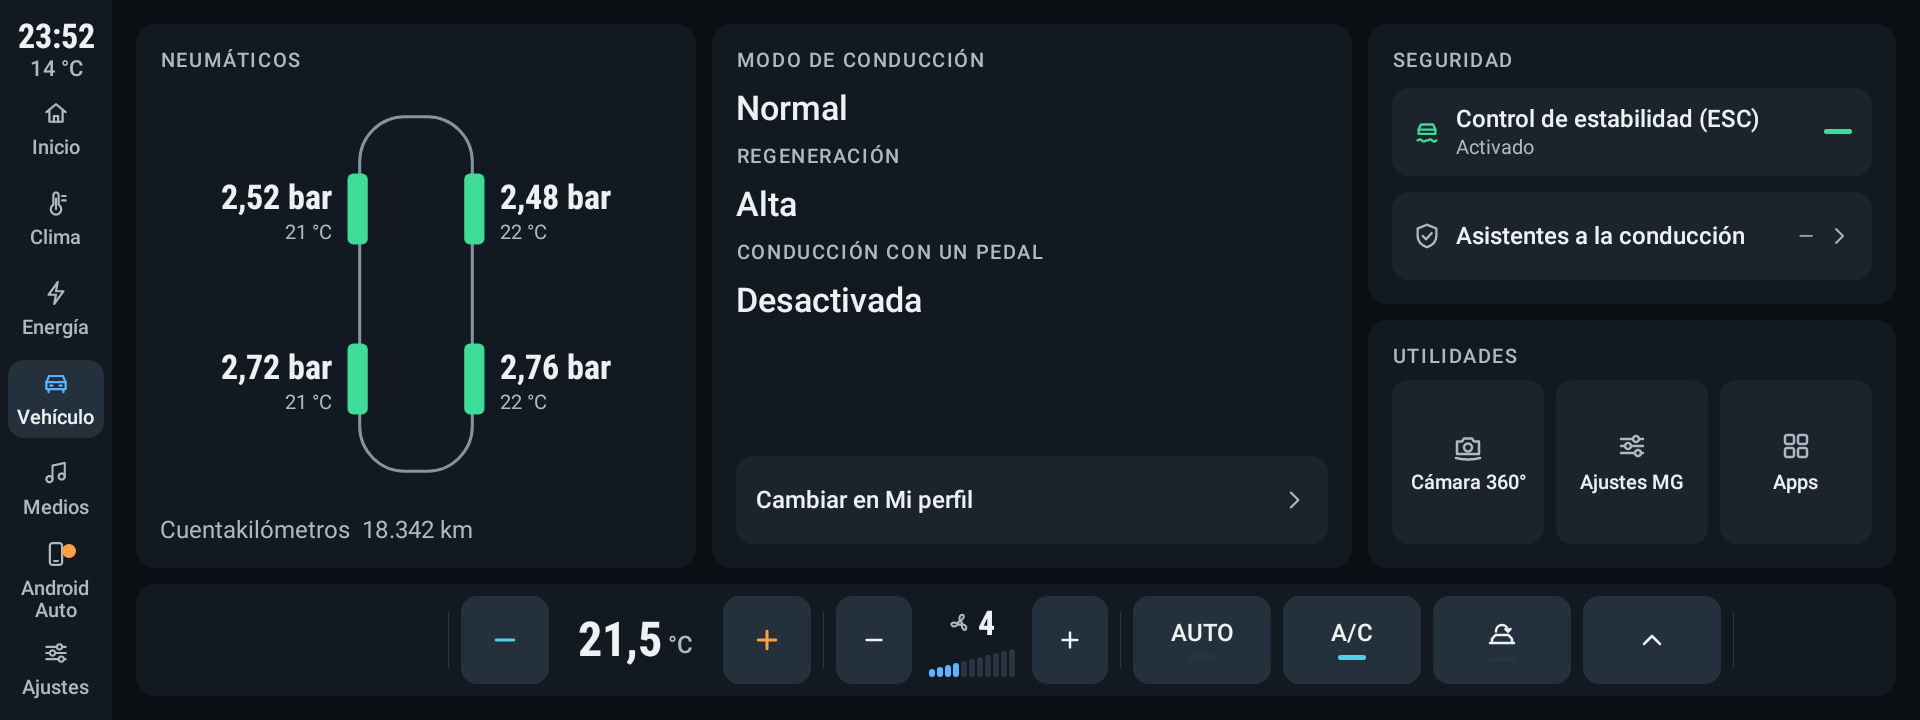
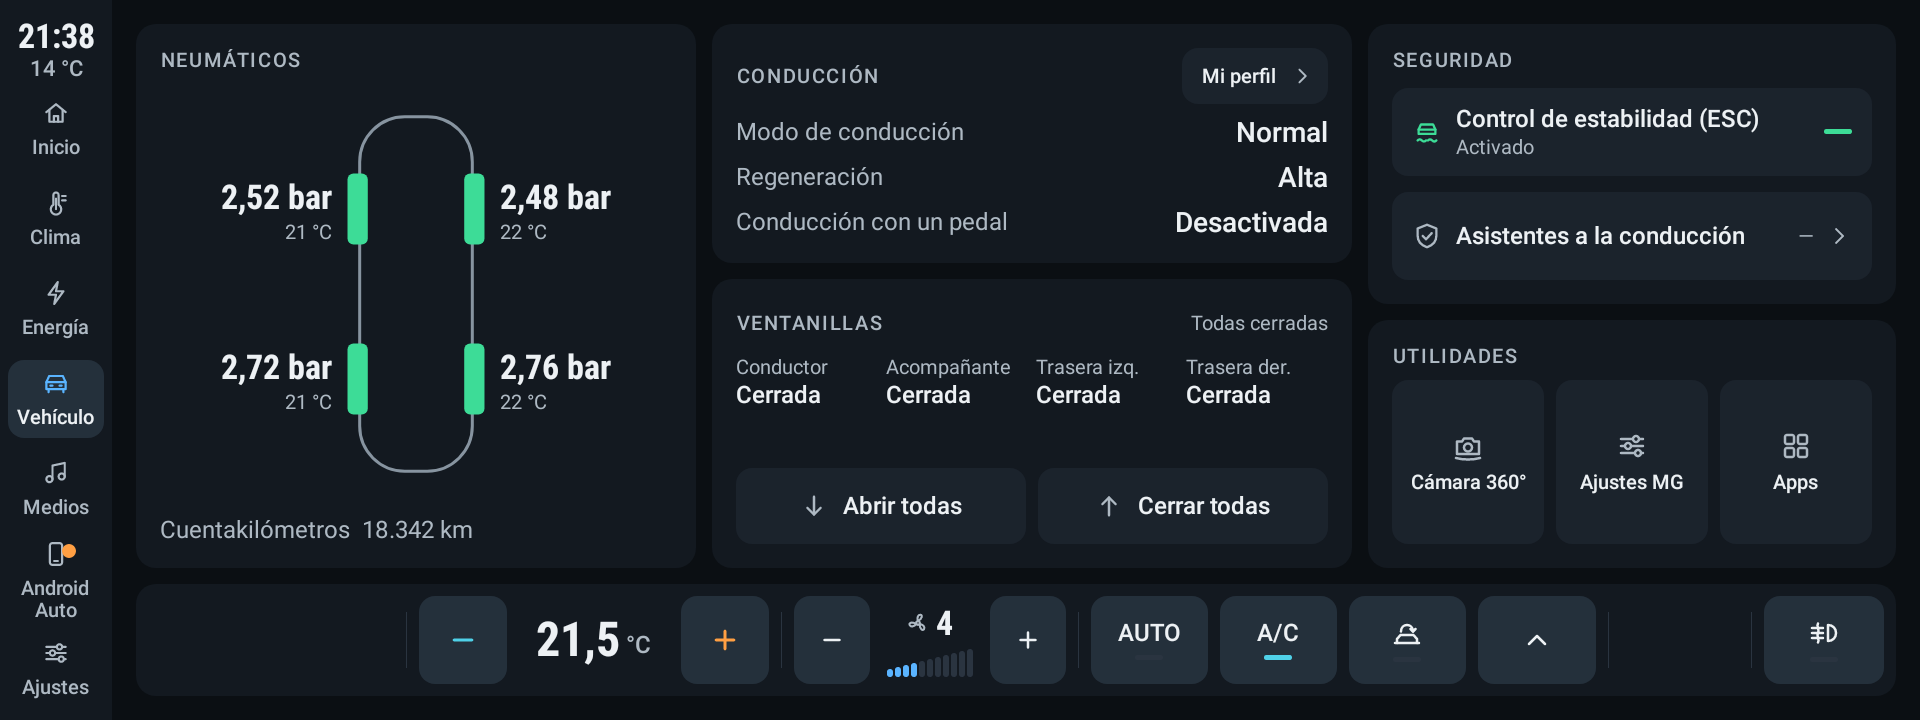
Vehículo: show each window and open or close them all
The car's VehicleControlManager (the one ESC already uses) reads every
window as 0-100 % and takes a command 0-7 per window. The SAIC launcher
only names two: 3 closes all and 4 opens all. Both are sent to all four
windows, so they end up the same way whether the car applies them to one
window or all. Not tried on the car yet.

diff --git a/app/src/main/java/app/mg4dash/cockpit/screens/VehicleScreens.kt b/app/src/main/java/app/mg4dash/cockpit/screens/VehicleScreens.kt
@@ -6,6 +6,7 @@ import android.widget.TextView
 import app.mg4dash.car.CarBridge
 import app.mg4dash.car.CarProps
 import app.mg4dash.car.VehicleState
+import app.mg4dash.car.Windows
 import app.mg4dash.cockpit.Adas
 import app.mg4dash.cockpit.Btn
 import app.mg4dash.cockpit.Dim
@@ -23,6 +24,7 @@ import app.mg4dash.cockpit.Ty
 import app.mg4dash.cockpit.WRAP
 import app.mg4dash.cockpit.card
 import app.mg4dash.cockpit.col
+import app.mg4dash.cockpit.header
 import app.mg4dash.cockpit.label
 import app.mg4dash.cockpit.lp
 import app.mg4dash.cockpit.put
@@ -42,6 +44,10 @@ class VehicleScreen(host: Host) : Screen(host) {
     private lateinit var esc: Btn
     private lateinit var adas: TextView
     private lateinit var odo: TextView
+    private lateinit var winSummary: TextView
+    private val winCells = ArrayList<TextView>()
+    private lateinit var winOpen: Btn
+    private lateinit var winClose: Btn
     private var escArmedUntil = 0L
 
     override fun build(): View = c.row(Dim.GAP).apply {
@@ -51,18 +57,37 @@ class VehicleScreen(host: Host) : Screen(host) {
             tyres = TyreView(c); addView(tyres, lp(MATCH, 0, 1f))
             odo = c.text("—", Ty.LABEL, Pal.text2); addView(odo)
         }, w(560))
-        addView(c.card().apply {
-            // réglages de conduite : se règlent dans « Mi perfil », appliqués avec les asistentes
-            addView(c.label("Modo de conducción"))
-            modeText = c.text("—", Ty.TITLE, Pal.text, Ty.uiMedium); addView(modeText)
-            addView(c.label("Regeneración"))
-            regenText = c.text("—", Ty.TITLE, Pal.text, Ty.uiMedium); addView(regenText)
-            addView(c.label("Conducción con un pedal"))
-            onePedalText = c.text("—", Ty.TITLE, Pal.text, Ty.uiMedium); addView(onePedalText)
-            addView(View(c), lp(MATCH, 0, 1f))
-            addView(Btn(c, "Cambiar en Mi perfil", Icons.chevronRight, 28, vertical = false, iconEnd = true).apply {
-                setOnClickListener { host.go("adas") }
-            }, lp(MATCH, Dim.TAP))
+        addView(c.col(Dim.GAP).apply {
+            addView(c.card(gap = 12).apply {
+                // réglages de conduite : se règlent dans « Mi perfil », appliqués avec les asistentes
+                addView(c.header("Conducción", Btn(c, "Mi perfil", Icons.chevronRight, 24, vertical = false, textSize = Ty.CAPTION, iconEnd = true).apply {
+                    setPadding(20, 0, 14, 0); setOnClickListener { host.go("adas") }
+                }, 56))
+                modeText = setting("Modo de conducción")
+                regenText = setting("Regeneración")
+                onePedalText = setting("Conducción con un pedal")
+            }, lp(MATCH, WRAP))
+            addView(c.card(gap = 12).apply {
+                // Ventanillas : les quatre à la fois, seules commandes nommées par la voiture (voir Windows)
+                winSummary = c.text("—", Ty.CAPTION, Pal.text2).apply { maxLines = 1; gravity = Gravity.CENTER_VERTICAL }
+                addView(c.header("Ventanillas", winSummary))
+                addView(c.row(8).apply {
+                    Windows.NAMES.forEach { n ->
+                        addView(c.col(2).apply {
+                            addView(c.text(n, Ty.CAPTION, Pal.text2).apply { maxLines = 1 })
+                            val v = c.text("—", Ty.LABEL, Pal.text, Ty.uiMedium).apply { maxLines = 1 }
+                            winCells.add(v); addView(v)
+                        }, lp(0, WRAP, 1f))
+                    }
+                })
+                addView(View(c), lp(MATCH, 0, 1f))
+                addView(c.row(12).apply {
+                    winOpen = Btn(c, "Abrir todas", Icons.arrowDown, 30, vertical = false, centered = true).apply { setOnClickListener { windows(true) } }
+                    addView(winOpen, lp(0, Dim.TAP_MIN, 1f))
+                    winClose = Btn(c, "Cerrar todas", Icons.arrowUp, 30, vertical = false, centered = true).apply { setOnClickListener { windows(false) } }
+                    addView(winClose, lp(0, Dim.TAP_MIN, 1f))
+                })
+            }, lp(MATCH, 0, 1f))
         }, w(640))
         addView(c.col(Dim.GAP).apply {
             addView(c.card().apply {
@@ -94,7 +119,29 @@ class VehicleScreen(host: Host) : Screen(host) {
         }, w(528))
     }
 
+    /** Ligne « réglage … valeur » de la carte Conducción ; renvoie la valeur. */
+    private fun android.widget.LinearLayout.setting(name: String): TextView {
+        val v = c.text("—", Ty.BODY, Pal.text, Ty.uiMedium).apply { maxLines = 1 }
+        addView(c.row(12).apply {
+            addView(c.text(name, Ty.LABEL, Pal.text2).apply { maxLines = 1 }, lp(0, WRAP, 1f))
+            addView(v)
+        }, lp(MATCH, WRAP))
+        return v
+    }
+
+    private fun windows(open: Boolean) {
+        when (CarBridge.setWindows(open)) {
+            CarBridge.Write.SENT -> host.toast(if (open) "Abriendo las ventanillas" else "Cerrando las ventanillas", "Para pararlas, usa los botones de la puerta")
+            else -> host.toast("Ventanillas no disponibles", "El coche no responde a las ventanillas", Pal.alert)
+        }
+    }
+
     override fun bind(s: VehicleState) {
+        val w = s.windows
+        winSummary.put(Windows.summary(w))
+        winCells.forEachIndexed { i, t -> t.put(Windows.cell(w?.getOrNull(i))) }
+        winOpen.isEnabled = w != null; winClose.isEnabled = w != null
+        winOpen.alpha = if (w != null) 1f else 0.5f; winClose.alpha = winOpen.alpha
         tyres.wheels = (0..3).map { i ->
             val kpa = CarProps.getInt(0x21401553 + i)?.takeIf { it in 50..600 }
             val t = CarProps.getInt(0x2140155b + i)?.takeIf { it in -40..120 }

diff --git a/app/src/main/java/app/mg4dash/car/Windows.kt b/app/src/main/java/app/mg4dash/car/Windows.kt
@@ -1,0 +1,50 @@
+package app.mg4dash.car
+
+import kotlin.math.roundToInt
+
+/**
+ * Ventanillas, par le `VehicleControlManager` de l'ancien launcher (SWI68) : une propriété par
+ * vitre (0x11603801 conducteur, …02 passager, …03 arrière gauche, …04 arrière droite).
+ *
+ * Lecture et écriture ne parlent pas la même échelle (ressources du service véhicule) :
+ *  - lecture : position 0 (fermée) à 100 (ouverte), `max_vehicle_window_get = 100` ;
+ *  - écriture : une commande 0 à 7, `max_vehicle_window_set = 7`, toute autre valeur est jetée
+ *    sans erreur.
+ *
+ * Seules deux commandes sont nommées sur la voiture : `VehicleConstant.MainDrivingWindowValueSend`
+ * du launcher SAIC, 3 « tout fermer » et 4 « tout ouvrir », pour la vitre conducteur. On les envoie
+ * aux quatre vitres : que la commande vaille pour toutes ou pour la seule vitre visée, les quatre
+ * finissent dans le même sens. Non essayé sur la voiture au moment de l'écrire (2026-10-22).
+ */
+object Windows {
+    const val CLOSE_ALL = 3
+    const val OPEN_ALL = 4
+
+    /** Dans l'ordre de [VehicleState.windows] : conducteur, passager, arrière gauche, arrière droite. */
+    val GETTERS = listOf("getDriveWindow", "getPassengerWindow", "getLeftRearWindow", "getRightRearWindow")
+    val SETTERS = listOf("setDriveWindow", "setPassengerWindow", "setLeftRearWindow", "setRightRearWindow")
+    val NAMES = listOf("Conductor", "Acompañante", "Trasera izq.", "Trasera der.")
+
+    fun command(open: Boolean) = if (open) OPEN_ALL else CLOSE_ALL
+
+    /** Position lue en %, ou null hors échelle (le service répond une valeur invalide sans capteur). */
+    fun percent(raw: Float?): Int? = raw?.takeIf { !it.isNaN() && it in 0f..100f }?.roundToInt()
+
+    /** Toutes les vitres lues et fermées. */
+    fun allClosed(p: List<Int?>?): Boolean = p != null && p.size == 4 && p.all { it == 0 }
+
+    /** Résumé pour l'en-tête de la carte. */
+    fun summary(p: List<Int?>?): String {
+        val known = p?.filterNotNull().orEmpty()
+        val open = known.count { it > 0 }
+        return when {
+            known.isEmpty() -> "Sin lectura"
+            open == 0 -> "Todas cerradas"
+            known.size == 4 && known.all { it == 100 } -> "Todas abiertas"
+            open == 1 -> "1 abierta"
+            else -> "$open abiertas"
+        }
+    }
+
+    fun cell(v: Int?): String = v?.let { if (it == 0) "Cerrada" else "$it %" } ?: "—"
+}

diff --git a/app/src/main/java/app/mg4dash/car/CarBridge.kt b/app/src/main/java/app/mg4dash/car/CarBridge.kt
@@ -200,7 +200,7 @@ object CarBridge {
                     if (adapter == null) { if (Firmware.family != Firmware.Family.LEGACY) bind() } else resolveClients()
                 }
                 if (now - lastHvac >= if (fast) HVAC_FAST_MS else HVAC_SLOW_MS) { lastHvac = now; refreshHvac(); refreshHeating() }
-                if (now - lastEnergy >= if (fast) ENERGY_FAST_MS else ENERGY_SLOW_MS) { lastEnergy = now; refreshEnergy(); refreshRearFog() }
+                if (now - lastEnergy >= if (fast) ENERGY_FAST_MS else ENERGY_SLOW_MS) { lastEnergy = now; refreshEnergy(); refreshRearFog(); refreshWindows() }
             } catch (e: Exception) {
                 Log.w(TAG, "poll : ${e.message}")
             }
@@ -602,6 +602,27 @@ object CarBridge {
             val ok = LegacyCar.setRearFog(RearFog.command(on))
             Log.i(TAG, "SET antiniebla trasera = $on → $ok")
             delay(800); refreshRearFog(); delay(1500); refreshRearFog()
+        }
+        return Write.SENT
+    }
+
+    // ── Ventanillas (voir Windows) : relues avec l'énergie, puis chaque demi-seconde pendant leur course ──
+
+    private fun refreshWindows() {
+        if (BuildConfig.MOCK || Firmware.family == Firmware.Family.A9) return
+        val p = LegacyCar.windows() ?: return
+        if (p != _state.value.windows) _state.value = _state.value.copy(windows = p)
+    }
+
+    /** Ouvre ou ferme les quatre vitres, aussi en roulant : comme les commandes de porte, la voiture décide. */
+    fun setWindows(open: Boolean): Write {
+        if (_state.value.windows == null) return Write.UNAVAILABLE
+        if (BuildConfig.MOCK) { _state.value = _state.value.copy(windows = List(4) { if (open) 100 else 0 }); return Write.SENT }
+        scope.launch {
+            val ok = LegacyCar.windowCommand(Windows.command(open))
+            Log.i(TAG, "SET ventanillas ${if (open) "abrir" else "cerrar"} → $ok")
+            // une vitre met 3 à 4 s pour sa course : on suit sa position jusqu'au bout
+            repeat(16) { delay(500); refreshWindows() }
         }
         return Write.SENT
     }

diff --git a/app/src/testEmulator/java/app/mg4dash/WindowsTest.kt b/app/src/testEmulator/java/app/mg4dash/WindowsTest.kt
@@ -1,0 +1,51 @@
+package app.mg4dash
+
+import app.mg4dash.car.Windows
+import org.junit.Assert.assertEquals
+import org.junit.Assert.assertFalse
+import org.junit.Assert.assertNull
+import org.junit.Assert.assertTrue
+import org.junit.Test
+
+/** Ventanillas : lo que el coche lee (0–100 %) y lo que se le manda (comandos 3 y 4 del launcher de MG). */
+class WindowsTest {
+
+    @Test
+    fun `abrir y cerrar usan los comandos del launcher de MG`() {
+        assertEquals(4, Windows.command(open = true))
+        assertEquals(3, Windows.command(open = false))
+        assertEquals(4, Windows.SETTERS.size)
+        assertEquals(Windows.GETTERS.size, Windows.SETTERS.size)
+    }
+
+    @Test
+    fun `la posición fuera de 0–100 no se cree`() {
+        assertEquals(0, Windows.percent(0f))
+        assertEquals(37, Windows.percent(36.6f))
+        assertEquals(100, Windows.percent(100f))
+        assertNull(Windows.percent(-1f))
+        assertNull(Windows.percent(255f))
+        assertNull(Windows.percent(Float.NaN))
+        assertNull(Windows.percent(null))
+    }
+
+    @Test
+    fun `resumen de la tarjeta`() {
+        assertEquals("Sin lectura", Windows.summary(null))
+        assertEquals("Sin lectura", Windows.summary(listOf(null, null, null, null)))
+        assertEquals("Todas cerradas", Windows.summary(listOf(0, 0, 0, 0)))
+        assertEquals("Todas abiertas", Windows.summary(listOf(100, 100, 100, 100)))
+        assertEquals("1 abierta", Windows.summary(listOf(30, 0, 0, 0)))
+        assertEquals("2 abiertas", Windows.summary(listOf(100, 40, 0, null)))
+    }
+
+    @Test
+    fun `cerradas solo si se leen las cuatro`() {
+        assertTrue(Windows.allClosed(listOf(0, 0, 0, 0)))
+        assertFalse(Windows.allClosed(listOf(0, 0, 0, null)))
+        assertFalse(Windows.allClosed(null))
+        assertEquals("Cerrada", Windows.cell(0))
+        assertEquals("40 %", Windows.cell(40))
+        assertEquals("—", Windows.cell(null))
+    }
+}

diff --git a/app/src/main/java/app/mg4dash/car/MockCar.kt b/app/src/main/java/app/mg4dash/car/MockCar.kt
@@ -11,7 +11,7 @@ object MockCar {
         state.value = VehicleState(
             connected = true, hvacOn = true, acOn = true, autoOn = false, recirc = 1,
             fanSpeed = 4, fanDirection = 1, driverTemp = 21.5f, outsideTemp = 14.0f,
-            defrostFront = false, defrostRear = false, rearFog = false, batteryPercent = 78, socPrecise = 78.4f, seatHeatL = 2, seatHeatR = 0, wheelHeat = 0, rangeKm = 284,
+            defrostFront = false, defrostRear = false, rearFog = false, windows = listOf(0, 0, 0, 0), batteryPercent = 78, socPrecise = 78.4f, seatHeatL = 2, seatHeatR = 0, wheelHeat = 0, rangeKm = 284,
             chargeStatus = 7, chargeCtrl = 2, dischargeCtrl = 2, chargeLock = 1, driveMode = 3, regenLevel = 2, onePedal = 0,
             odometerKm = 18342, speedKmh = 0f, ecoOn = false, steeringMode = 2, brakePedalMode = 0,
             enduranceMode = 0, lasMode = 3, fcwState = 2, fcwBrakeMode = 2, overSpeedSound = 1, speedLimitSound = 0,
@@ -47,6 +47,7 @@ object MockCar {
             "power" -> s.copy(hvacOn = !(s.hvacOn ?: false))
             "ac" -> s.copy(acOn = !(s.acOn ?: false))
             "fog" -> s.copy(rearFog = !(s.rearFog ?: false))
+            "windows" -> s.copy(windows = if (Windows.allClosed(s.windows)) listOf(100, 40, 0, 0) else listOf(0, 0, 0, 0))
             "auto" -> s.copy(autoOn = !(s.autoOn ?: false))
             "recirc" -> s.copy(recirc = ((s.recirc ?: 0) + 1) % 3)
             "defrostFront" -> s.copy(defrostFront = !(s.defrostFront ?: false))

diff --git a/app/src/main/java/app/mg4dash/car/LegacyCar.kt b/app/src/main/java/app/mg4dash/car/LegacyCar.kt
@@ -347,6 +347,29 @@ object LegacyCar {
         catch (e: Exception) { Log.w(TAG, "setLightRearFogSwitch($v) : ${(e.cause ?: e).message}"); false }
     }
 
+    // ── Ventanillas (voir Windows) : le même VehicleControlManager que l'ESC ──
+
+    /** Positions des quatre vitres en % (ordre de [Windows.GETTERS]) ; null si le SDK ne répond pas. */
+    fun windows(): List<Int?>? {
+        connectControl()
+        val m = control ?: return null
+        val p = Windows.GETTERS.map { g ->
+            try { Windows.percent((Refl.m(m, g).invoke(m) as? Number)?.toFloat()) }
+            catch (e: Exception) { Log.w(TAG, "$g : ${(e.cause ?: e).message}"); null }
+        }
+        return p.takeIf { it.any { v -> v != null } }
+    }
+
+    /** Envoie [command] (0–7, voir [Windows]) aux quatre vitres ; true si toutes l'ont reçue. */
+    fun windowCommand(command: Int): Boolean {
+        connectControl()
+        val m = control ?: return false
+        return Windows.SETTERS.map { s ->
+            try { Refl.m(m, s, Float::class.javaPrimitiveType).invoke(m, command.toFloat()); true }
+            catch (e: Exception) { Log.w(TAG, "$s($command) : ${(e.cause ?: e).message}"); false }
+        }.all { it }
+    }
+
     /** Pour l'écran Compatibilité. */
     fun probe(): String = when {
         ac == null -> "absent"

diff --git a/app/src/main/java/app/mg4dash/cockpit/Icons.kt b/app/src/main/java/app/mg4dash/cockpit/Icons.kt
@@ -29,6 +29,8 @@ object Icons {
     val close = p("M9 9l14 14M23 9 9 23")
     val check = p("M7 16.5l6 6L25 10")
     val download = p("M16 5v15", "M9.5 13.5 16 20l6.5-6.5", "M6 26h20")
+    val arrowUp = p("M16 26V7", "M9 14l7-7 7 7")
+    val arrowDown = p("M16 6v19", "M9 18l7 7 7-7")
     val power = p("M16 5v10", "M9.6 9.2a9 9 0 1 0 12.8 0")
     val defrostFront = p("M4 11.5C8 8.5 12 7.5 16 7.5s8 1 12 4l-2.5 13c-3-1.3-6.3-2-9.5-2s-6.5.7-9.5 2Z", "M12 20c-1.2-1.5 1.2-3 0-4.5M16 19.5c-1.2-1.5 1.2-3 0-4.5M20 20c-1.2-1.5 1.2-3 0-4.5")
     val defrostRear = Icon(listOf(Icon.Part(rect(4f, 8f, 24f, 16f, 3f)), Icon.Part("M12 20c-1.2-1.5 1.2-3 0-4.5M16 19.5c-1.2-1.5 1.2-3 0-4.5M20 20c-1.2-1.5 1.2-3 0-4.5")))

diff --git a/app/src/main/java/app/mg4dash/car/VehicleState.kt b/app/src/main/java/app/mg4dash/car/VehicleState.kt
@@ -24,6 +24,8 @@ data class VehicleState(
     val defrostRear: Boolean? = null,
     /** Antibrouillard arrière ; null quand la voiture ne le commande pas depuis l'écran (bouton masqué). */
     val rearFog: Boolean? = null,
+    /** Ventanillas en % (conductor, acompañante, trasera izq., trasera der.) ; null sin lectura. Voir [Windows]. */
+    val windows: List<Int?>? = null,
     val ecoOn: Boolean? = null,
     /** Sièges chauffants (0 éteint, 1 à 3) et volant chauffant (0 / 1), versions équipées. */
     val seatHeatL: Int? = null,

diff --git a/app/src/testEmulator/java/app/mg4dash/CockpitScreenshotTest.kt b/app/src/testEmulator/java/app/mg4dash/CockpitScreenshotTest.kt
@@ -46,6 +46,7 @@ class CockpitScreenshotTest {
     @Test fun androidAuto() = shoot("aa", "android_auto.png")
     @Test fun drivingLight() = shoot("home", "driving_light.png", light = true)
     @Test fun drivingFog() = shoot("home", "driving_fog.png", "fog")
+    @Test fun vehicleWindows() = shoot("vehicle", "vehicle_windows.png", "windows")
     @Test fun energyLight() = shoot("energy", "energy_light.png", "plug", "startCharge", light = true)
 
     /**

diff --git a/README.md b/README.md
@@ -45,7 +45,7 @@ The charts are touchable: tap or drag to read a value. Electricity prices (home 
 |---|---|
 | ![Vehículo](docs/screenshots/vehicle.png) | ![Mi perfil](docs/screenshots/profiles.png) |
 
-- **Vehículo**: tyre pressures and temperatures, odometer, drive mode, regeneration and one-pedal driving, ESC, and shortcuts to the 360° camera, the MG settings and the installed apps.
+- **Vehículo**: tyre pressures and temperatures, odometer, drive mode, regeneration and one-pedal driving, the position of each window with *Abrir todas* / *Cerrar todas*, ESC, and shortcuts to the 360° camera, the MG settings and the installed apps. The windows use the open-all and close-all commands the SAIC launcher defines (4 and 3), sent to all four windows; they have not been tried on the car yet.
 - **Mi perfil**: two profiles that set, or leave unchanged, the drive mode, regeneration, one-pedal driving and the driver assistance settings (speed limit warning, lane keeping, driver monitoring, unsteady driving warning, rear traffic alert). EU rules switch the assistants back on at every start; a profile puts them back the way you want with one tap, also while driving.
 
 ## Medios
